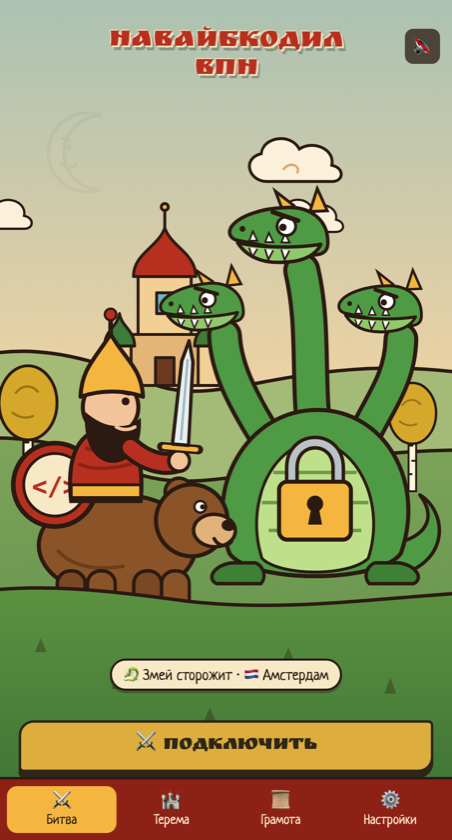
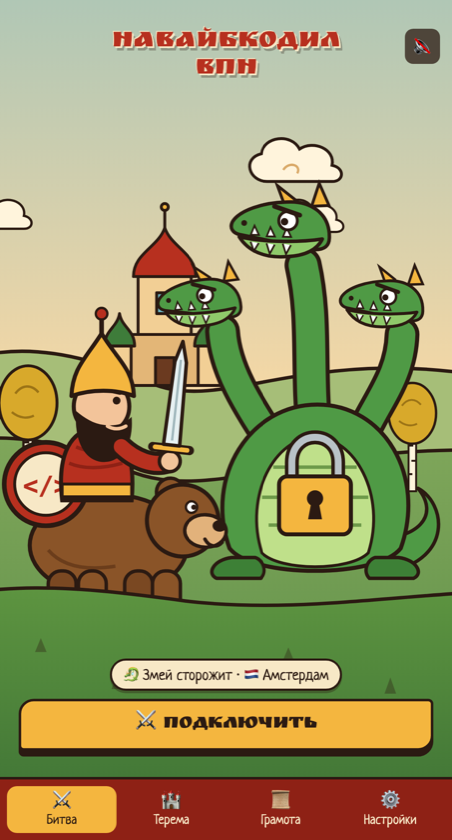
Add files via upload

diff --git a/map/index.html b/map/index.html
@@ -75,6 +75,7 @@
   /* Режим для картинки-анонса: только карта */
   body.preview header, body.preview .hero, body.preview .stats, body.preview .side, body.preview .explain, body.preview footer, body.preview .legend { display:none; }
   body.preview .board { display:block; }
+  body.preview .region { transition:none; }
   body.preview main { padding:0; max-width:none; }
   body.preview .mapbox { border-radius:0; border:0; box-shadow:none; }
   @media (max-width: 980px) { .board { grid-template-columns:1fr; } .stats { grid-template-columns:repeat(2,1fr); } .explain { grid-template-columns:1fr; } }
@@ -345,7 +346,7 @@ $('#live').onclick = async () => {
   drawMap();
   // Данные лежат в отдельном репозитории navaibe-data (там всегда только последний замер)
   const owner = location.hostname.endsWith('.github.io') ? location.hostname.split('.')[0] : 'davyypapo4ka';
-  const src = new URLSearchParams(location.search).get('data') || `https://${owner}.github.io/navaibe-data/freedom.json`;
+  const src = new URLSearchParams(location.search).get('data') || `https://raw.githubusercontent.com/${owner}/navaibe-data/main/freedom.json`;
   try {
     const r = await fetch(src + '?t=' + Math.floor(Date.now() / 300000), { cache: 'no-store' });
     if (!r.ok) throw new Error();

diff --git a/index.html b/index.html
@@ -536,7 +536,7 @@ document.querySelectorAll('#menu a').forEach(a => a.onclick = () => $('#menu').c
 })();
 
 // Цифры с карты свободы
-fetch(`https://${location.hostname.endsWith('.github.io') ? location.hostname.split('.')[0] : 'davyypapo4ka'}.github.io/navaibe-data/freedom.json?t=` + Math.floor(Date.now() / 300000)).then(r => r.ok ? r.json() : null).then(d => {
+fetch(`https://raw.githubusercontent.com/${location.hostname.endsWith('.github.io') ? location.hostname.split('.')[0] : 'davyypapo4ka'}/navaibe-data/main/freedom.json?t=` + Math.floor(Date.now() / 300000)).then(r => r.ok ? r.json() : null).then(d => {
   if (!d) return;
   const cs = d.cities, n = cs.length;
   $('#t-tg').textContent = `${cs.filter(c => !(c.tg_web.ok || c.tg_dc.ok)).length} из ${n}`;
